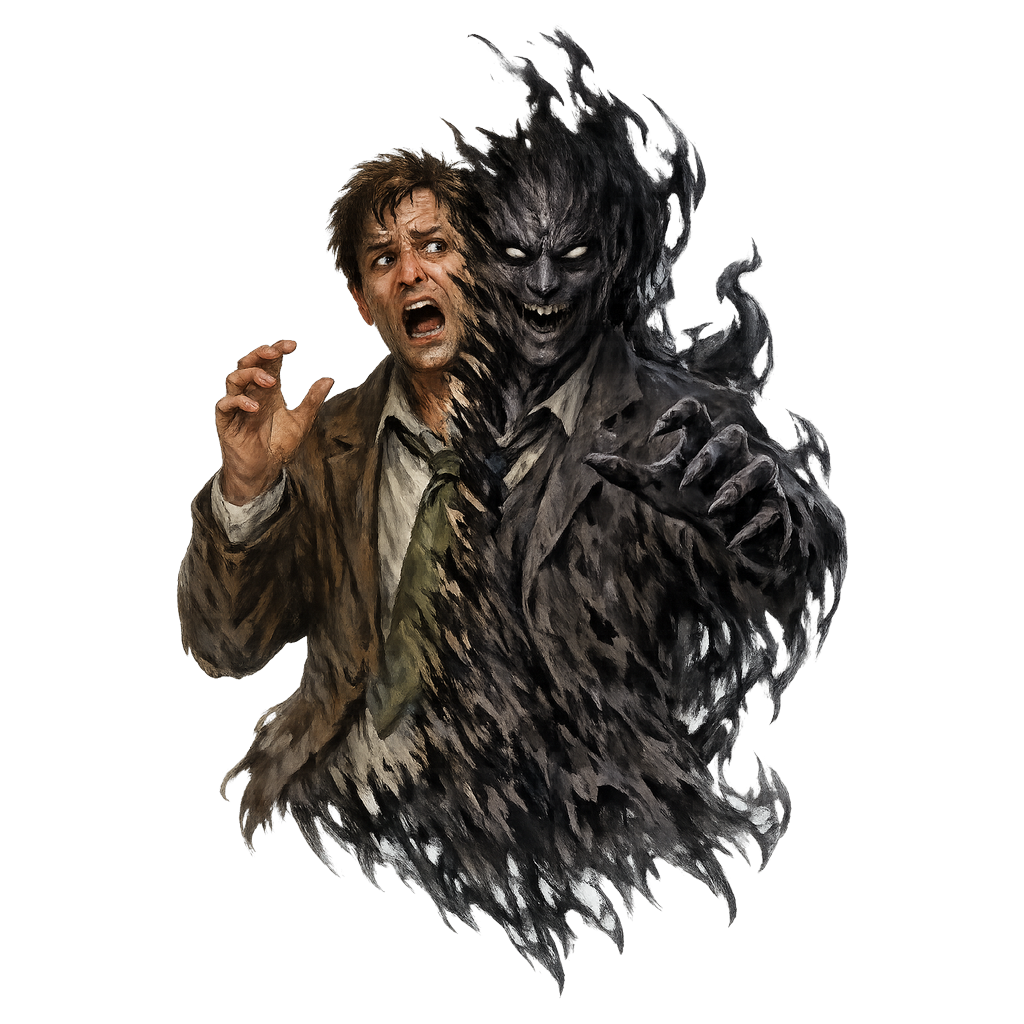
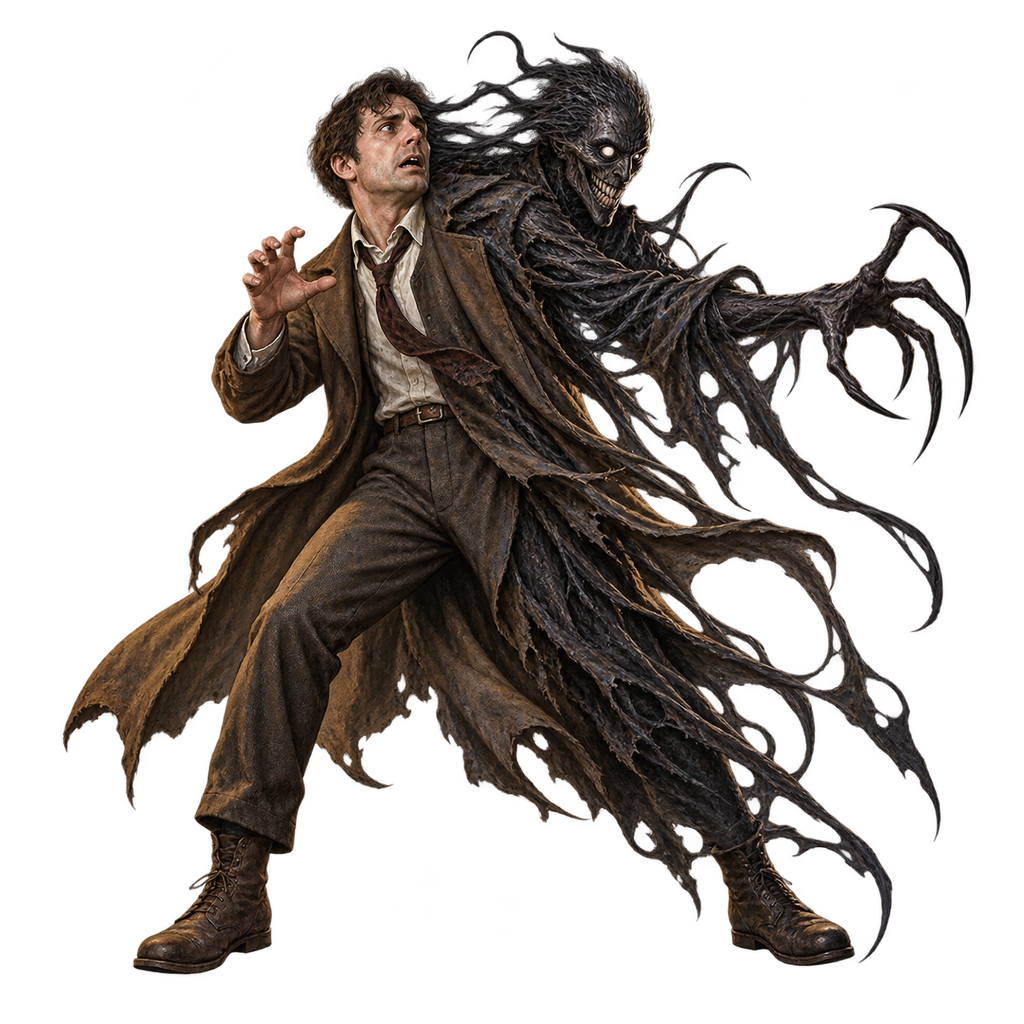
Refresh artwork for all 15 epic monsters

diff --git a/output/imagegen/epic-monster-prompts.md b/output/imagegen/epic-monster-prompts.md
@@ -1,0 +1,73 @@
+# Epic monster artwork refresh
+
+Generated with the built-in image_gen tool, matching the refreshed regular monster set. Replaces all 15 epic monster PNGs under their existing filenames in `assets/monster/epic/`. Current monster identities are retained, including Yig's two-legged reptilian design.
+
+Final exports: 1024 x 1024 RGBA, proportionally fitted within 984 x 984 pixels and centered with a 20-pixel transparent safety border, preserving generated alpha. The labeled overview is `epic-monsters-preview.png`.
+
+Validation: all 15 exports pass dimensions, RGBA, nonempty artwork, and transparent-border checks. Source-edge inspection and visual review found no clipped silhouettes. The changed PNG set exactly matches all 15 epic monsters; regular monster and cultist PNGs are unchanged. The production `:desktop:previewMonsterSheet` task passed for all 72 monsters, including label bounds, rule reattachment, health tokens, scrolling, and reuse. `:desktop:previewMonsterArtwork` passed artwork resolution, map, selection, card, and combat checks. The complete contact sheet and representative card and combat screenshots were visually inspected.
+
+## Shared prompt
+
+Use case: stylized-concept. Asset type: Ancient Terror dark cosmic-horror board-game EPIC monster sprite. Create a NEW original illustration matching the refreshed regular monster set: detailed realistic painterly fantasy bestiary cutout, tactile weathered skin, fur and fabric, muted charcoal, dusty ochre and desaturated olive colors, warm directional highlights and cool deep shadows. Rich sculptural detail, menacing restrained horror, commanding epic presence, clear readable silhouette at small token size. Composition: square 1024x1024, centered FULL BODY three-quarter view, occupy about 82 percent of canvas with at least 7 percent clear transparent margin on EVERY edge. Every horn, claw, wing, tendril, foot and tail must fit entirely inside the image. Background: actual transparent alpha including negative spaces between limbs. No environment, floor, cast shadow, scenery, pedestal, base, badge, circular token, frame, text, letters, logo, watermark or checkerboard. Subject:
+
+## Per-monster subject prompts
+
+### ChildrenOfYig.png
+
+One uncanny serpent-humanoid offspring of Yig, an oversized rounded reptilian skull with large amber slit-pupil eyes and a forked tongue, a small lean scaled humanoid torso with exactly two long clawed arms, and one thick snake lower body tightly coiled into a broad compact base instead of legs. Weathered olive and dusty ochre scales, tense forward crouch, intelligent and unsettling rather than cute. Preserve this existing serpent-humanoid identity, no wings, crown, clothes or jewelry.
+
+### Cthulhu.png
+
+One colossal ancient Cthulhu, an immense broad-shouldered humanoid cosmic deity with a large cephalopod head, deep-set amber eyes, a long beard of thick hanging and curling facial tentacles, two huge clawed arms, two powerful taloned legs, and exactly two vast ragged batlike wings lifted behind the shoulders. Dark olive and charcoal leathery ridged skin, ancient scarred texture and heavy sculptural mass, commanding upright advancing pose. More monumental than the regular Star Spawn. Entire wings, feet and tentacle tips contained. No crown, clothing or scenery.
+
+### Cthylla.png
+
+One compact winged cephalopod cosmic horror, bulbous ridged reddish-umber head with a cluster of six small amber eyes, one vertical fanged maw, eight long muscular suckered octopus tentacles curling into a coherent low base, and exactly two small ragged membranous bat wings extending behind the head. Dark muted wine-red and umber flesh, weathered organic ridges, menacing nonhumanoid anatomy. All tentacles and wings visible.
+
+### Doppelganger.png
+
+One adult male shapeshifting doppelganger in worn 1920s brown coat, white shirt, loosened dark tie, trousers and boots. One side of its face and body still looks human and alarmed, while the other side transitions into a grinning charcoal-black shadow mimic with pale eyes, extended clawed fingers and jagged fibrous wisps. Two closely overlapping aspects of the SAME figure, coherent full-body pose with both feet visible, human hand recoiling and shadow hand reaching. No gore, no detached bust, no second unrelated person or background shadow.
+
+### DunwichHorror.png
+
+One enormous amorphous yellow-gray cosmic abomination, a broad oval leathery body densely covered in rope-like tentacles, many small amber eyes clustered over a huge irregular vertical tooth-lined maw, heavy trunklike lower appendages and fringes of shorter grasping tendrils. A vaguely face-like central arrangement without normal human anatomy, mottled ochre-gray hide with wrinkled ridges and ancient folds. Complete heavy compact creature, no ooze puddle, scenery or gore.
+
+### Hydra.png
+
+One immense ancient aquatic humanoid cosmic horror matching the project's single-headed Mother Hydra: broad hunched fishlike head with pale staring eyes, a large lipless toothy mouth surrounded by long hanging facial tendrils, massive mottled olive-gray torso, two powerful clawed arms and two squat webbed feet. Ragged membranous fins sweep from shoulders and flanks, barnacle-like encrustations and leathery maritime textures. Full heavy upright body, no wings, no multiple serpent heads, no water, ground or scenery.
+
+### Nug.png
+
+One squat massive cosmic abomination with rough dark plum-brown hide, a huge low broad snarling head fused into its torso, a pair of short curved horns, several amber eyes above a wide horizontal jagged-toothed maw, and a beard of fleshy tendrils. Two massive sinewy forearms end in long hooked claws, two short heavy legs support a crouched broad silhouette; a few thick curling appendages emerge from shoulders. Weathered sculptural texture, subdued reddish umber accents, no gore. Distinctive low wide silhouette.
+
+### ShubNiggurath.png
+
+One towering Black Goat cosmic deity, a vast black-olive organic trunk of knotted bark-like flesh with many scattered pale eyes and several toothy mouths, three heavy hoofed root-legs, a central horned goat-skull-like suggestion of a face, and a branching crown of long curling tentacles with a few open mouths at their tips. Ancient immense mass, shaggy charcoal strands intertwined with leathery ridges, imposing broad triangular silhouette. More elaborate and monumental than a regular Dark Young. All appendages contained, no tree foliage or landscape.
+
+### TickTockMen.png
+
+One sinister adult male representative of the Tick Tock Men, an unnervingly impassive pale face in the shade of a black fedora, weathered charcoal 1920s three-piece suit, long black-brown overcoat, white shirt, dark tie and worn black leather gloves. Small antique pocket-watch chain on waistcoat. One gloved hand holds a compact old revolver pointed down, the other rests on a slender dark cane. Complete upright figure with both shoes and cane tip visible. Painterly tactile fabric, restrained menace, no modern accessories, text or background.
+
+### Tulzscha.png
+
+One living pillar of eldritch green flame, a twisting vertical core of smoky olive-black fire with sickly green and pale yellow-green luminous edges, long curling flame tendrils forming a broad organic silhouette, several subtle eye-like shapes suggested inside the flames. Noncorporeal cosmic entity, no human body or face, no solid feet. Rich painterly fire texture and restrained green luminosity rather than fluorescent neon. Entire flame tips visible, actual alpha around every tendril; no fog rectangle, surrounding aura or scenery.
+
+### WindWalker.png
+
+One towering gaunt wind-spirit beast, an elongated skull-like horned head with hollow pale eyes and a narrow snarling mouth, matted icy gray-white fur streaming from shoulders, extremely long arms with hooked black claws, and an emaciated animalistic torso. Lower body tapers into twisting pale gray fur and spectral wind ribbons, complete floating silhouette. Cold ash-blue shadows with restrained warm bone highlights, ancient and predatory, no snowstorm, sky, ground or opaque mist.
+
+### WingedSerpent.png
+
+One immense winged serpent, long continuous dark olive scaled body curling into a dramatic upright S-shaped coil, one fierce narrow dragonlike snake head with amber eyes, swept-back spines, bared ivory fangs and forked tongue, and exactly two broad ragged leathery bat wings attached just behind its neck. Dusty ochre belly plates, weathered bronze highlights on scales and wing struts. No arms or legs, no feathered wings, no crown. Entire wings and tapering tail visible within square.
+
+### Yeb.png
+
+One tall wiry cosmic abomination related to Nug but distinctly upright, dark charcoal and muted rust-red sinewy hide, elongated snarling head with a cluster of ember-amber eyes, a huge narrow vertical tooth-filled maw, two curved crownlike organic horns and a beard of long writhing tendrils. Two long muscular arms end in clawed hands, two crooked digitigrade legs and curling shoulder tendrils. Lean looming silhouette rather than Nug's squat broad body. Organic weathered folds, no fire, gore or background glow.
+
+### Yig.png
+
+One formidable ancient humanoid serpent god matching the current project's Yig identity: long flattened rattlesnake-like head with amber eyes, open fanged mouth and forked tongue, broad powerful muscular reptilian torso, exactly two long scaled arms with strong clawed hands, exactly two muscular reptilian legs with taloned feet, and one heavy long snake tail curling low behind his legs. Mottled olive, dusty ochre and earth-brown scales with restrained bronze highlights. Upright dynamic threatening three-quarter stance, one foot stepping forward, arms spread. No clothing, armor, crown, jewelry, wings or horns. Anatomically nonsexual fantasy reptile. Complete feet, hands and tail visible.
+
+### ZombieHorde.png
+
+A compact threatening group of NINE distinct adult reanimated human corpses in ragged 1920s shirts, waistcoats, coats, trousers, long skirts and worn shoes, arranged in a dense triangular advancing crowd. Gaunt pallid gray-ochre faces, vacant milky eyes, desiccated skin, uneven reaching arms. Front three full figures clearly readable with all their feet visible, rear rows rise behind to show separate heads and shoulders. Cohesive full-body group silhouette, restrained horror without blood, exposed organs or gore. No ground, graves or background.

diff --git a/assets/monster/epic/Yig-artwork.md b/assets/monster/epic/Yig-artwork.md
@@ -1,10 +1,15 @@
 # Yig epic monster artwork
 
-`assets/monster/epic/Yig.png` is a new 1254 × 1254 transparent RGBA sprite generated
-with the built-in image generation tool. It replaces the earlier crowned Yig image
-and matches `assets/ancient_one/yig-awakened-sheet-art-v2.png`, used as the character
-reference. Existing epic-monster paths use the new image automatically.
+`assets/monster/epic/Yig.png` is a 1024 × 1024 transparent RGBA sprite generated
+with the built-in image generation tool as part of the October 23, 2026 epic
+monster refresh. It retains the two-legged reptilian identity established by
+`assets/ancient_one/yig-awakened-sheet-art-v2.png`, with the weathered palette and
+rendering of the refreshed regular monsters. Existing epic-monster paths use it
+automatically.
 
-## Final generation prompt
+The current prompt and export details are in
+[`output/imagegen/epic-monster-prompts.md`](../../../output/imagegen/epic-monster-prompts.md#yigpng).
+
+## Previous generation prompt (October 16, 2026)
 
 Use case: stylized-concept. Create a NEW full-body Yig EPIC MONSTER sprite for Ancient Terror, matching the creature in the supplied new Yig awakening artwork. Reference is for character identity and painting style only. Same upright humanoid serpent god: long flattened rattlesnake-like head, open mouth and forked tongue, cold amber eyes, powerful muscular almost-human torso and legs, broad shoulders, long scaled arms, strong clawed hands, mottled olive, ochre and earth-brown scales. A long heavy snake tail coils low behind the legs. Dynamic threatening three-quarter stance, one foot stepping forward, arms opened with curved claws ready to strike, imposing and ancient. The entire creature, head, hands, feet and tail fully visible within a square transparent canvas with clear margins, centered strong silhouette, readable as a small game monster token and a 260 pixel combat sprite. No environment, no temple, no stones, no ground plane, no dust cloud, no extra creatures. No clothing, armor, feather crown, gold regalia, jewelry, wings or horns. Anatomically nonsexual fantasy reptile, no human genitalia. Rich realistic painted cosmic-horror game asset, finely textured scales and warm bronze highlights with olive shadows. Genuine transparent alpha background and clean organic edges, no baked checkerboard, no cast shadow, text, logo, border or UI. Original illustration, matching the new Yig design rather than the old crowned snake deity.
